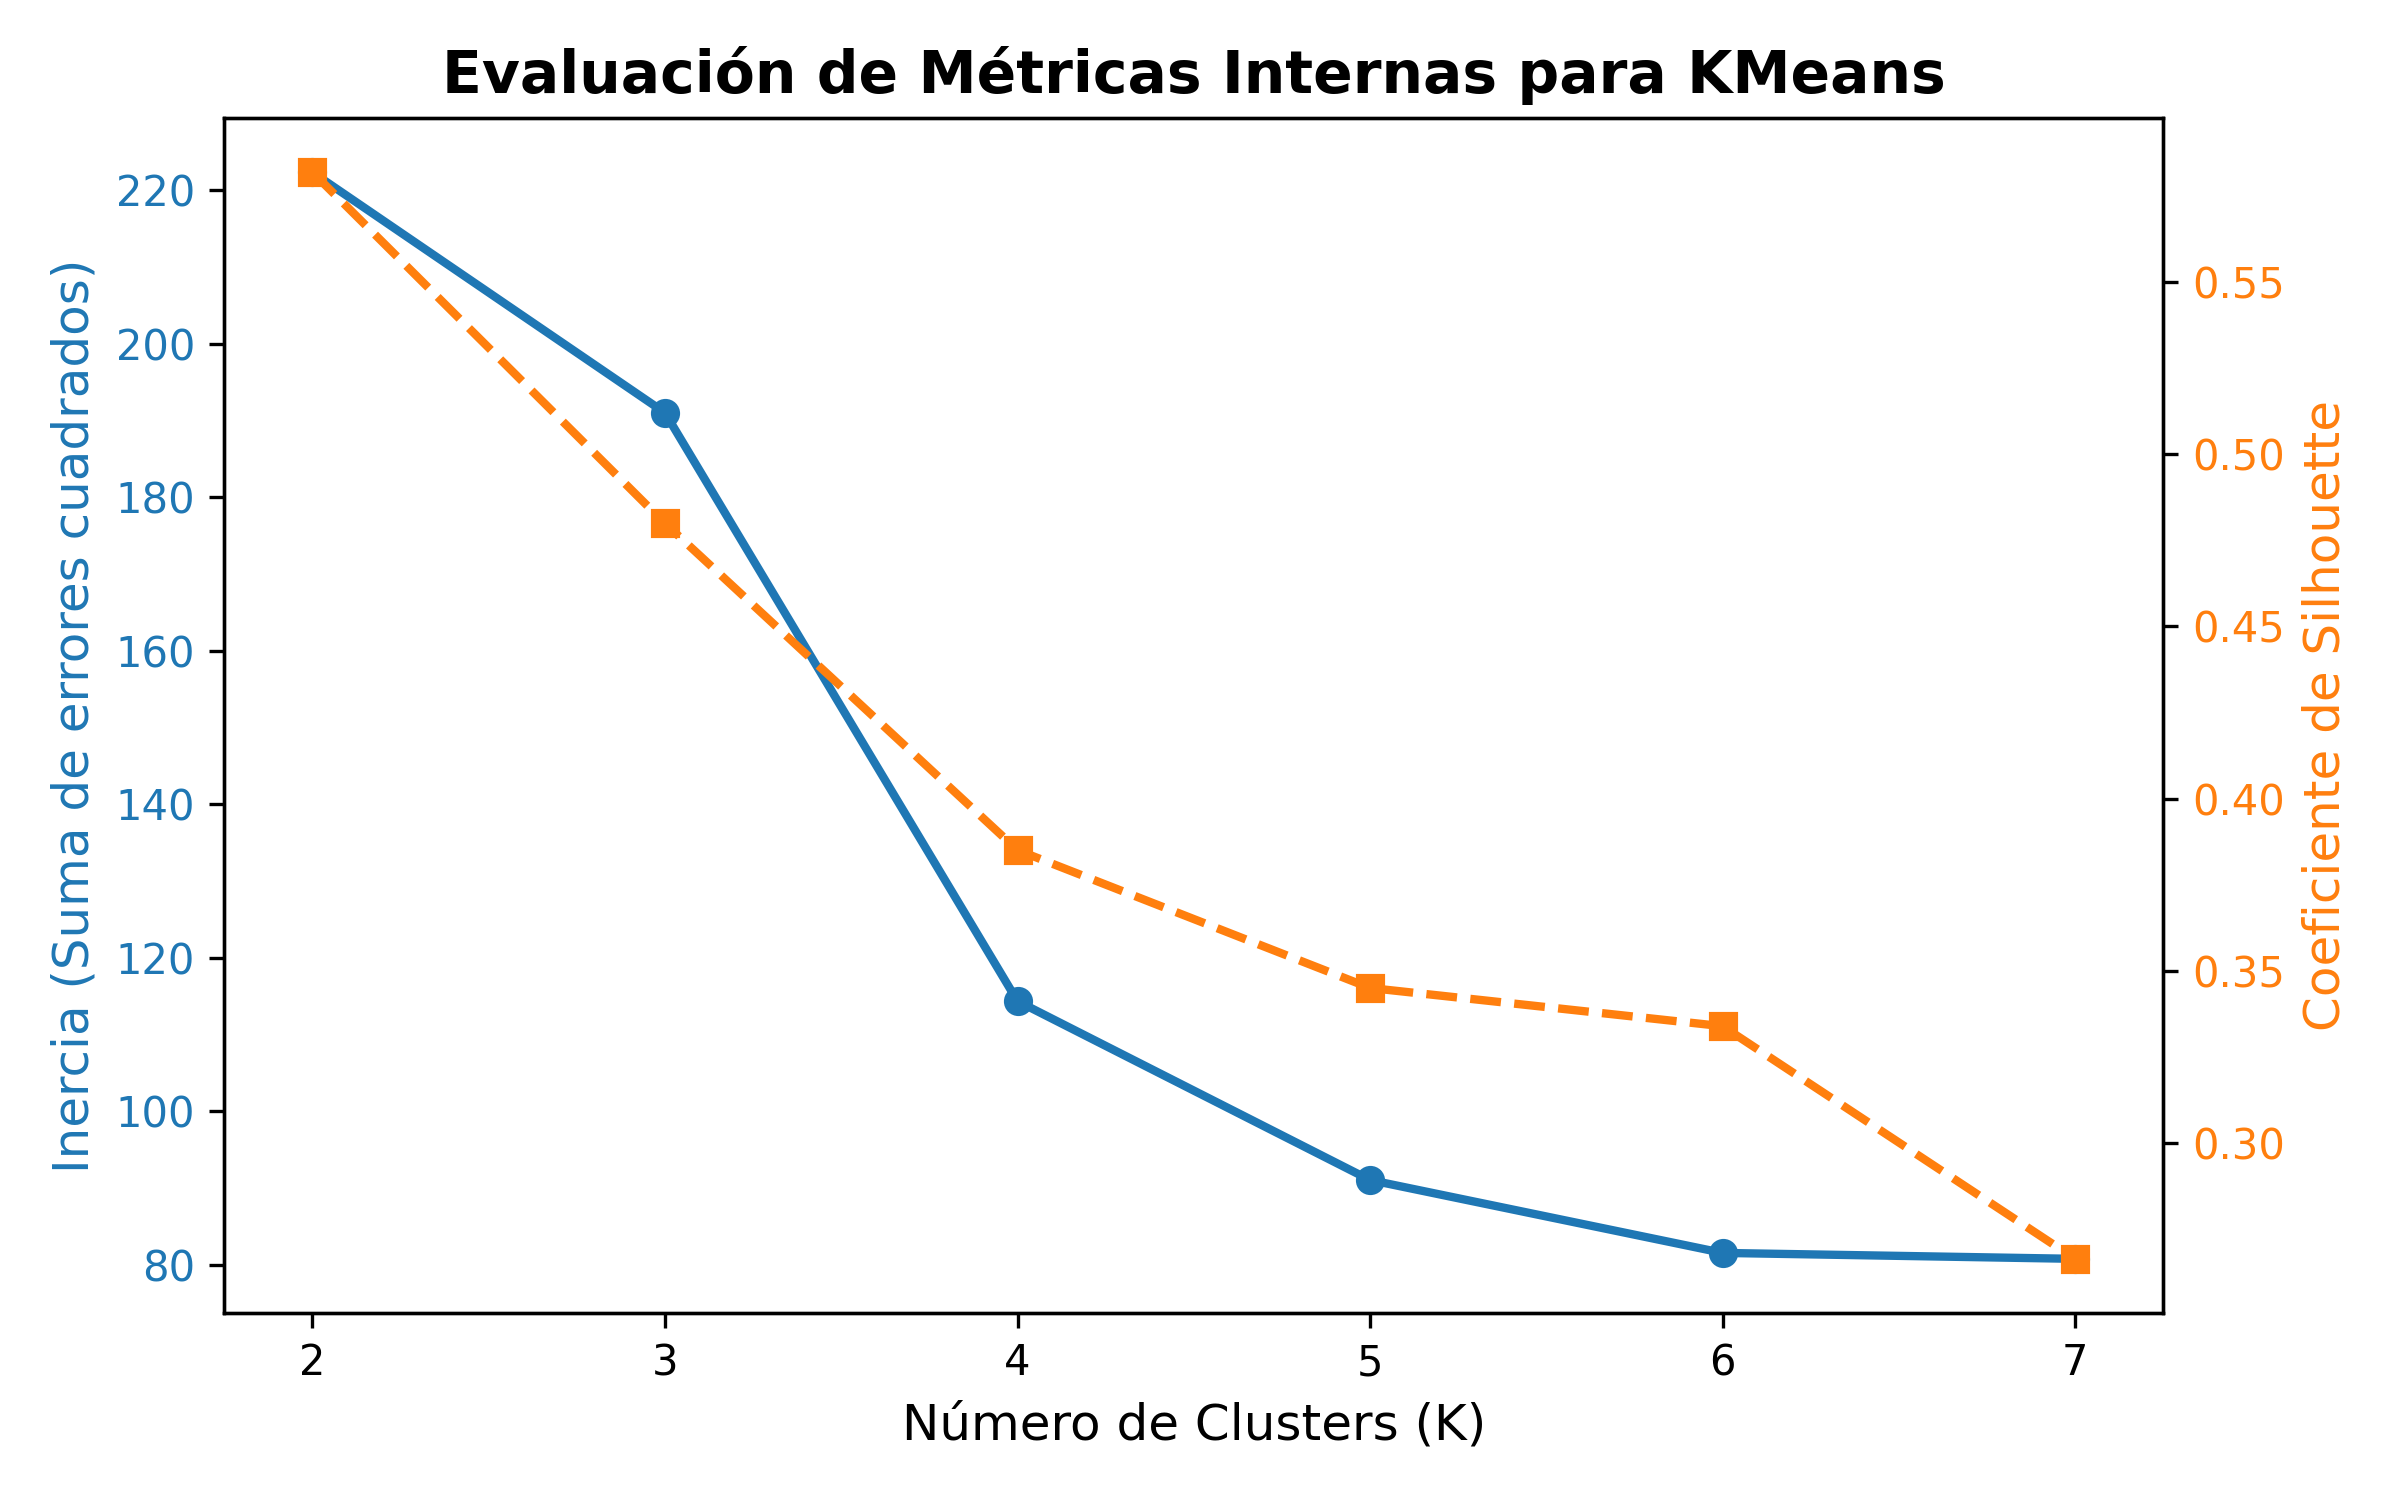
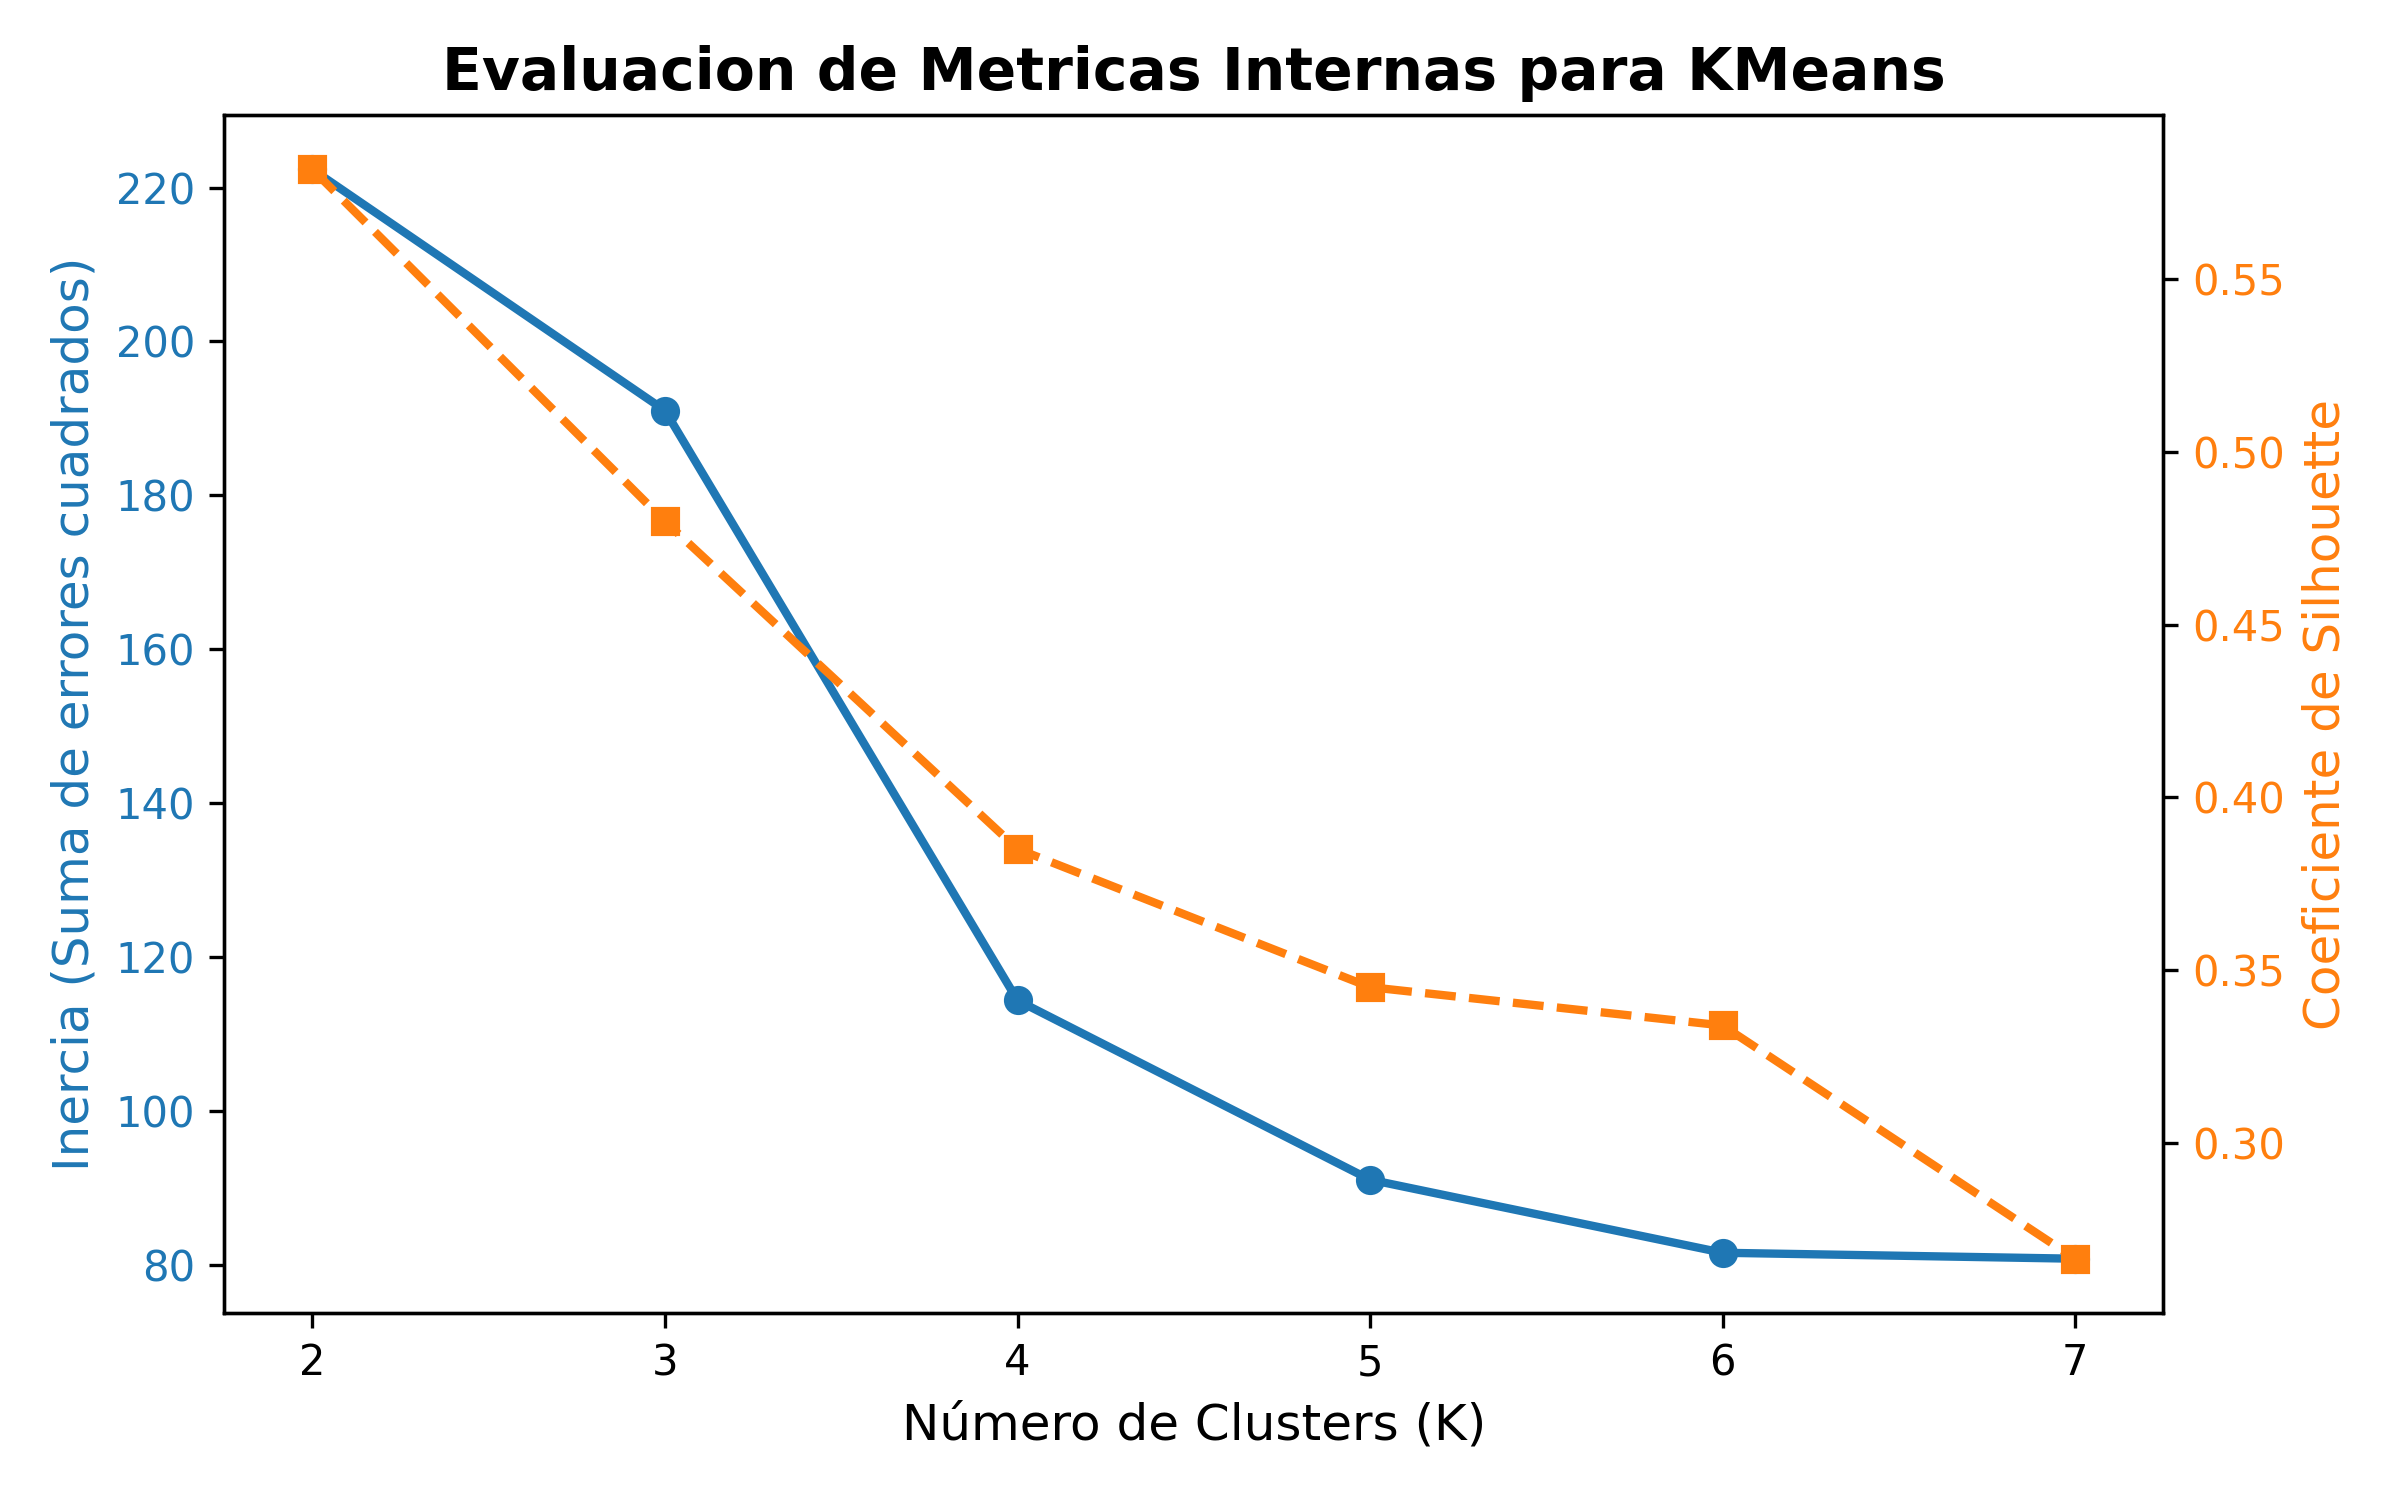
finish

diff --git a/Inteligencia Artifical/Segundo Proyecto/nosupervizado.py b/Inteligencia Artifical/Segundo Proyecto/nosupervizado.py
@@ -12,7 +12,7 @@ from sklearn.metrics import silhouette_score, adjusted_rand_score
 # --- FUNCIONES DEL PROCESO ---
 
 def cargar_y_describir_iris():
-    """Punto 11"""
+    """Punto 11: Carga el dataset Iris y describe sus variables."""
     iris = load_iris(as_frame=True)
     X = iris.data
     y = iris.target
@@ -22,6 +22,25 @@ def cargar_y_describir_iris():
     print(f"Cantidad de variables (columnas): {X.shape[1]}")
     print("Nombres de las variables:", list(X.columns))
     print("-" * 50)
+    
+    # --- GRÁFICO NUEVO PARA EL PUNTO 11 ---
+    # Creamos un histograma para cada una de las 4 variables para ver cómo se distribuyen en bruto
+    fig, ejes = plt.subplots(2, 2, figsize=(10, 8))
+    columnas = list(X.columns)
+    colores = ['#34495e', '#2ecc71', '#e74c3c', '#9b59b6']
+    
+    for i, ax in enumerate(ejes.ravel()):
+        ax.hist(X[columnas[i]], bins=15, color=colores[i], edgecolor='black', alpha=0.7)
+        ax.set_title(columnas[i], fontsize=11, fontweight='bold')
+        ax.set_ylabel('Frecuencia')
+        ax.grid(axis='y', linestyle='--', alpha=0.5)
+        
+    plt.suptitle('Punto 11 - Distribución y Rangos Originales de las Variables de Iris', fontsize=13, fontweight='bold')
+    plt.tight_layout()
+    plt.savefig('punto11_distribucion_variables.png', dpi=300)
+    plt.close()
+    
+    print("-> ¡Gráfico 'punto11_distribucion_variables.png' generado para la descripción inicial!")
     return X, y
 
 def estandarizar_datos(X):
@@ -39,14 +58,8 @@ def aplicar_pca(X_scaled):
     """Punto 13"""
     pca = PCA(n_components=2, random_state=42)
     X_pca = pca.fit_transform(X_scaled)
-    
-    varianza_explicada = pca.explained_variance_ratio_
-    print(" PUNTO 13: ANÁLISIS DE PCA")
-    print(f"Varianza explicada por la Componente 1: {varianza_explicada[0]*100:.2f}%")
-    print(f"Varianza explicada por la Componente 2: {varianza_explicada[1]*100:.2f}%")
-    print(f"Varianza acumulada total: {np.sum(varianza_explicada)*100:.2f}%")
-    print("-" * 50)
-    return X_pca
+    # ... (tus prints de varianza quedan igual)
+    return X_pca, pca # <-- RETORNAMOS AMBOS
 
 def analizar_kmeans_metodo_codo_y_silhouette(X_scaled):
     """Puntos 14, 15 y 16"""
@@ -87,44 +100,85 @@ def analizar_kmeans_metodo_codo_y_silhouette(X_scaled):
     plt.savefig('analisis_metricas_internas.png', dpi=300)
     plt.close()
 
-def visualizar_clusters_y_clases_reales(X_pca, X_scaled, y_real):
-    """Punto 17"""
-    # Elegimos K=3 basándonos en la morfología biológica del dataset y los análisis métricos
+def visualizar_clusters_y_clases_reales(X_pca, X_scaled, y_real, pca_transformer):
+    """Punto 17: Visualiza clusters con centroides y círculos de dispersión esférica."""
     k_elegido = 3
     kmeans_final = KMeans(n_clusters=k_elegido, n_init='auto', random_state=42)
-    clusters_predichos = kmeans_final.fit(X_scaled)
-    labels_pred = clusters_predichos.labels_
+    kmeans_final.fit(X_scaled)
+    labels_pred = kmeans_final.labels_
     
-    fig, (ax1, ax2) = plt.subplots(1, 2, figsize=(14, 6))
+    # 1. PASAMOS LOS CENTROIDES DE 4D A 2D USANDO EL MISMO PCA
+    centroides_4d = kmeans_final.cluster_centers_
+    centroides_2d = pca_transformer.transform(centroides_4d)
     
-    # Gráfico Izquierdo: Clusters identificados por KMeans (No Supervisado)
-    scatter1 = ax1.scatter(X_pca[:, 0], X_pca[:, 1], c=labels_pred, cmap='viridis', s=60, alpha=0.8)
+    fig, (ax1, ax2) = plt.subplots(1, 2, figsize=(15, 6.5))
+    colores_clusters = ['#1f77b4', '#2ca02c', '#9467bd'] # Paleta bien diferenciada
+    
+    # =========================================================================
+    # GRÁFICO IZQUIERDO: KMEANS CON CENTROIDES Y CÍRCULOS (NO SUPERVISADO)
+    # =========================================================================
+    # Dibujamos los puntos individuales coloreados por su clúster asignado
+    for i in range(k_elegido):
+        puntos_cluster = X_pca[labels_pred == i]
+        ax1.scatter(puntos_cluster[:, 0], puntos_cluster[:, 1], 
+                    color=colores_clusters[i], s=50, alpha=0.7, label=f'Clúster {i}')
+        
+        # Coordenadas del centroide actual en el plano PCA
+        cent_x, cent_y = centroides_2d[i, 0], centroides_2d[i, 1]
+        
+        # DIBUJAMOS EL CENTROIDE: Un marcador tipo "X" grande y llamativo
+        ax1.scatter(cent_x, cent_y, color='black', marker='X', s=250, 
+                    edgecolor='white', linewidth=1.5, zorder=10)
+        
+        # DIBUJAMOS EL CÍRCULO ENVOLVENTE: 
+        # Calculamos la distancia euclidiana al punto más lejano del clúster para definir el radio
+        distancias = np.sqrt(np.sum((puntos_cluster - [cent_x, cent_y]) ** 2, axis=1))
+        radio_envolvente = np.max(distancias) if len(distancias) > 0 else 0.5
+        
+        # Creamos el parche circular translúcido para denotar la frontera esférica
+        circulo = plt.Circle((cent_x, cent_y), radio_envolvente, color=colores_clusters[i], 
+                             fill=True, alpha=0.1, linestyle='--', linewidth=1.5, edgecolor=colores_clusters[i])
+        ax1.add_patch(circulo)
+        
     ax1.set_title(f'Agrupamiento No Supervisado (KMeans K={k_elegido})', fontsize=12, fontweight='bold')
     ax1.set_xlabel('Componente Principal 1')
     ax1.set_ylabel('Componente Principal 2')
-    ax1.grid(True, linestyle='--', alpha=0.5)
+    ax1.grid(True, linestyle='--', alpha=0.4)
+    ax1.legend(loc='upper right')
     
-    # Gráfico Derecho: Especies Reales del dataset Iris (Supervisado - Solo para comparar)
-    scatter2 = ax2.scatter(X_pca[:, 0], X_pca[:, 1], c=y_real, cmap='plasma', s=60, alpha=0.8)
+    # =========================================================================
+    # GRÁFICO DERECHO: CLASES REALES (SOLO PARA COMPARATIVA VISUAL)
+    # =========================================================================
+    scatter2 = ax2.scatter(X_pca[:, 0], X_pca[:, 1], c=y_real, cmap='plasma', s=50, alpha=0.8)
     ax2.set_title('Clases Reales (Especies del Dataset Iris)', fontsize=12, fontweight='bold')
     ax2.set_xlabel('Componente Principal 1')
     ax2.set_ylabel('Componente Principal 2')
-    ax2.grid(True, linestyle='--', alpha=0.5)
+    ax2.grid(True, linestyle='--', alpha=0.4)
     
-    # Calcular e imprimir una métrica externa de control para la explicación teórica
+    # Leyenda para las especies reales
+    clases_nombres = ['Setosa', 'Versicolor', 'Virginica']
+    handlers, _ = scatter2.legend_elements()
+    ax2.legend(handlers, clases_nombres, loc='upper right')
+    
     ari = adjusted_rand_score(y_real, labels_pred)
-    print(f"PUNTO 17: ANÁLISIS DE COMPARACIÓN ")
+    print("PUNTO 17: ANÁLISIS DE COMPARACIÓN ")
     print(f"Métrica Externa - Adjusted Rand Index (ARI): {ari:.4f}")
     print("-" * 50)
     
     plt.tight_layout()
     plt.savefig('visualizacion_clusters_pca.png', dpi=300)
     plt.close()
+    print("¡Gráfico 'visualizacion_clusters_pca.png' generado con centroides y esferas!")
 
 # --- EJECUCIÓN DEL FLUJO NO SUPERVISADO ---
 if __name__ == "__main__":
     X_iris, y_iris = cargar_y_describir_iris()
     X_estandarizado = estandarizar_datos(X_iris)
-    X_plano_pca = aplicar_pca(X_estandarizado)
+    
+    # Recibimos el plano y el transformador PCA
+    X_plano_pca, objeto_pca = aplicar_pca(X_estandarizado)
+    
     analizar_kmeans_metodo_codo_y_silhouette(X_estandarizado)
-    visualizar_clusters_y_clases_reales(X_plano_pca, X_estandarizado, y_iris)
+    
+    # Pasamos el objeto_pca como cuarto parámetro
+    visualizar_clusters_y_clases_reales(X_plano_pca, X_estandarizado, y_iris, objeto_pca)
